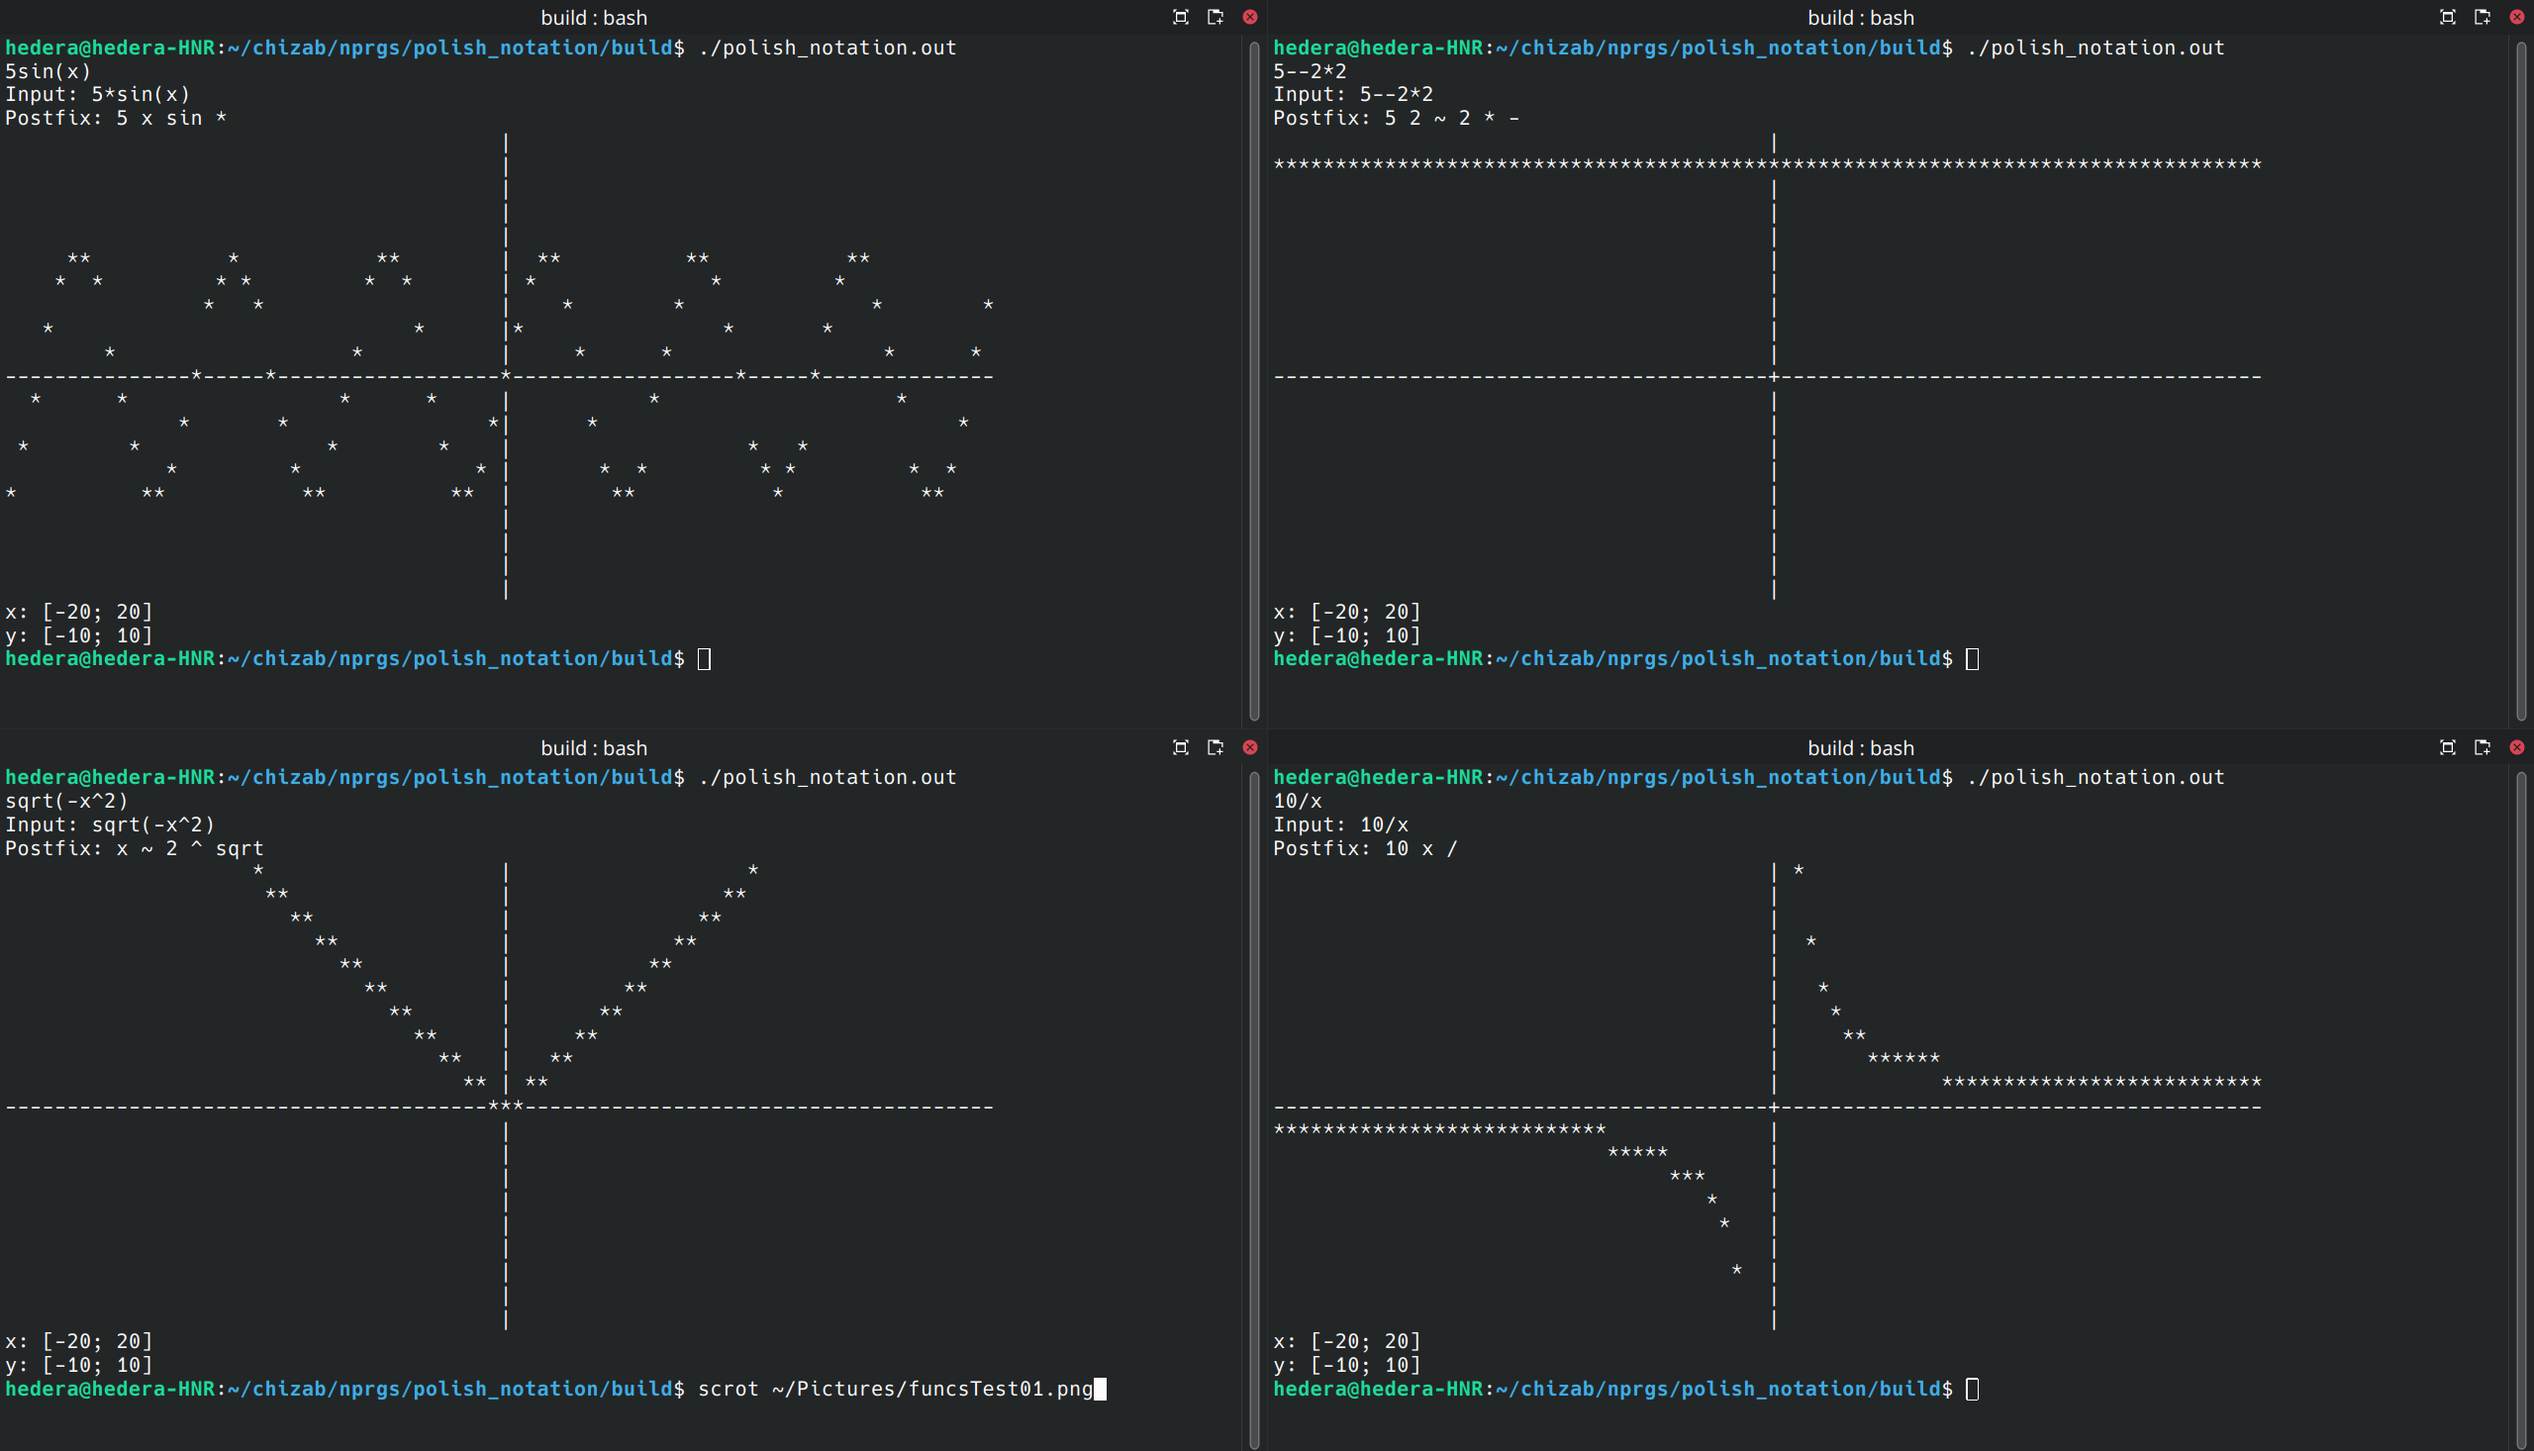
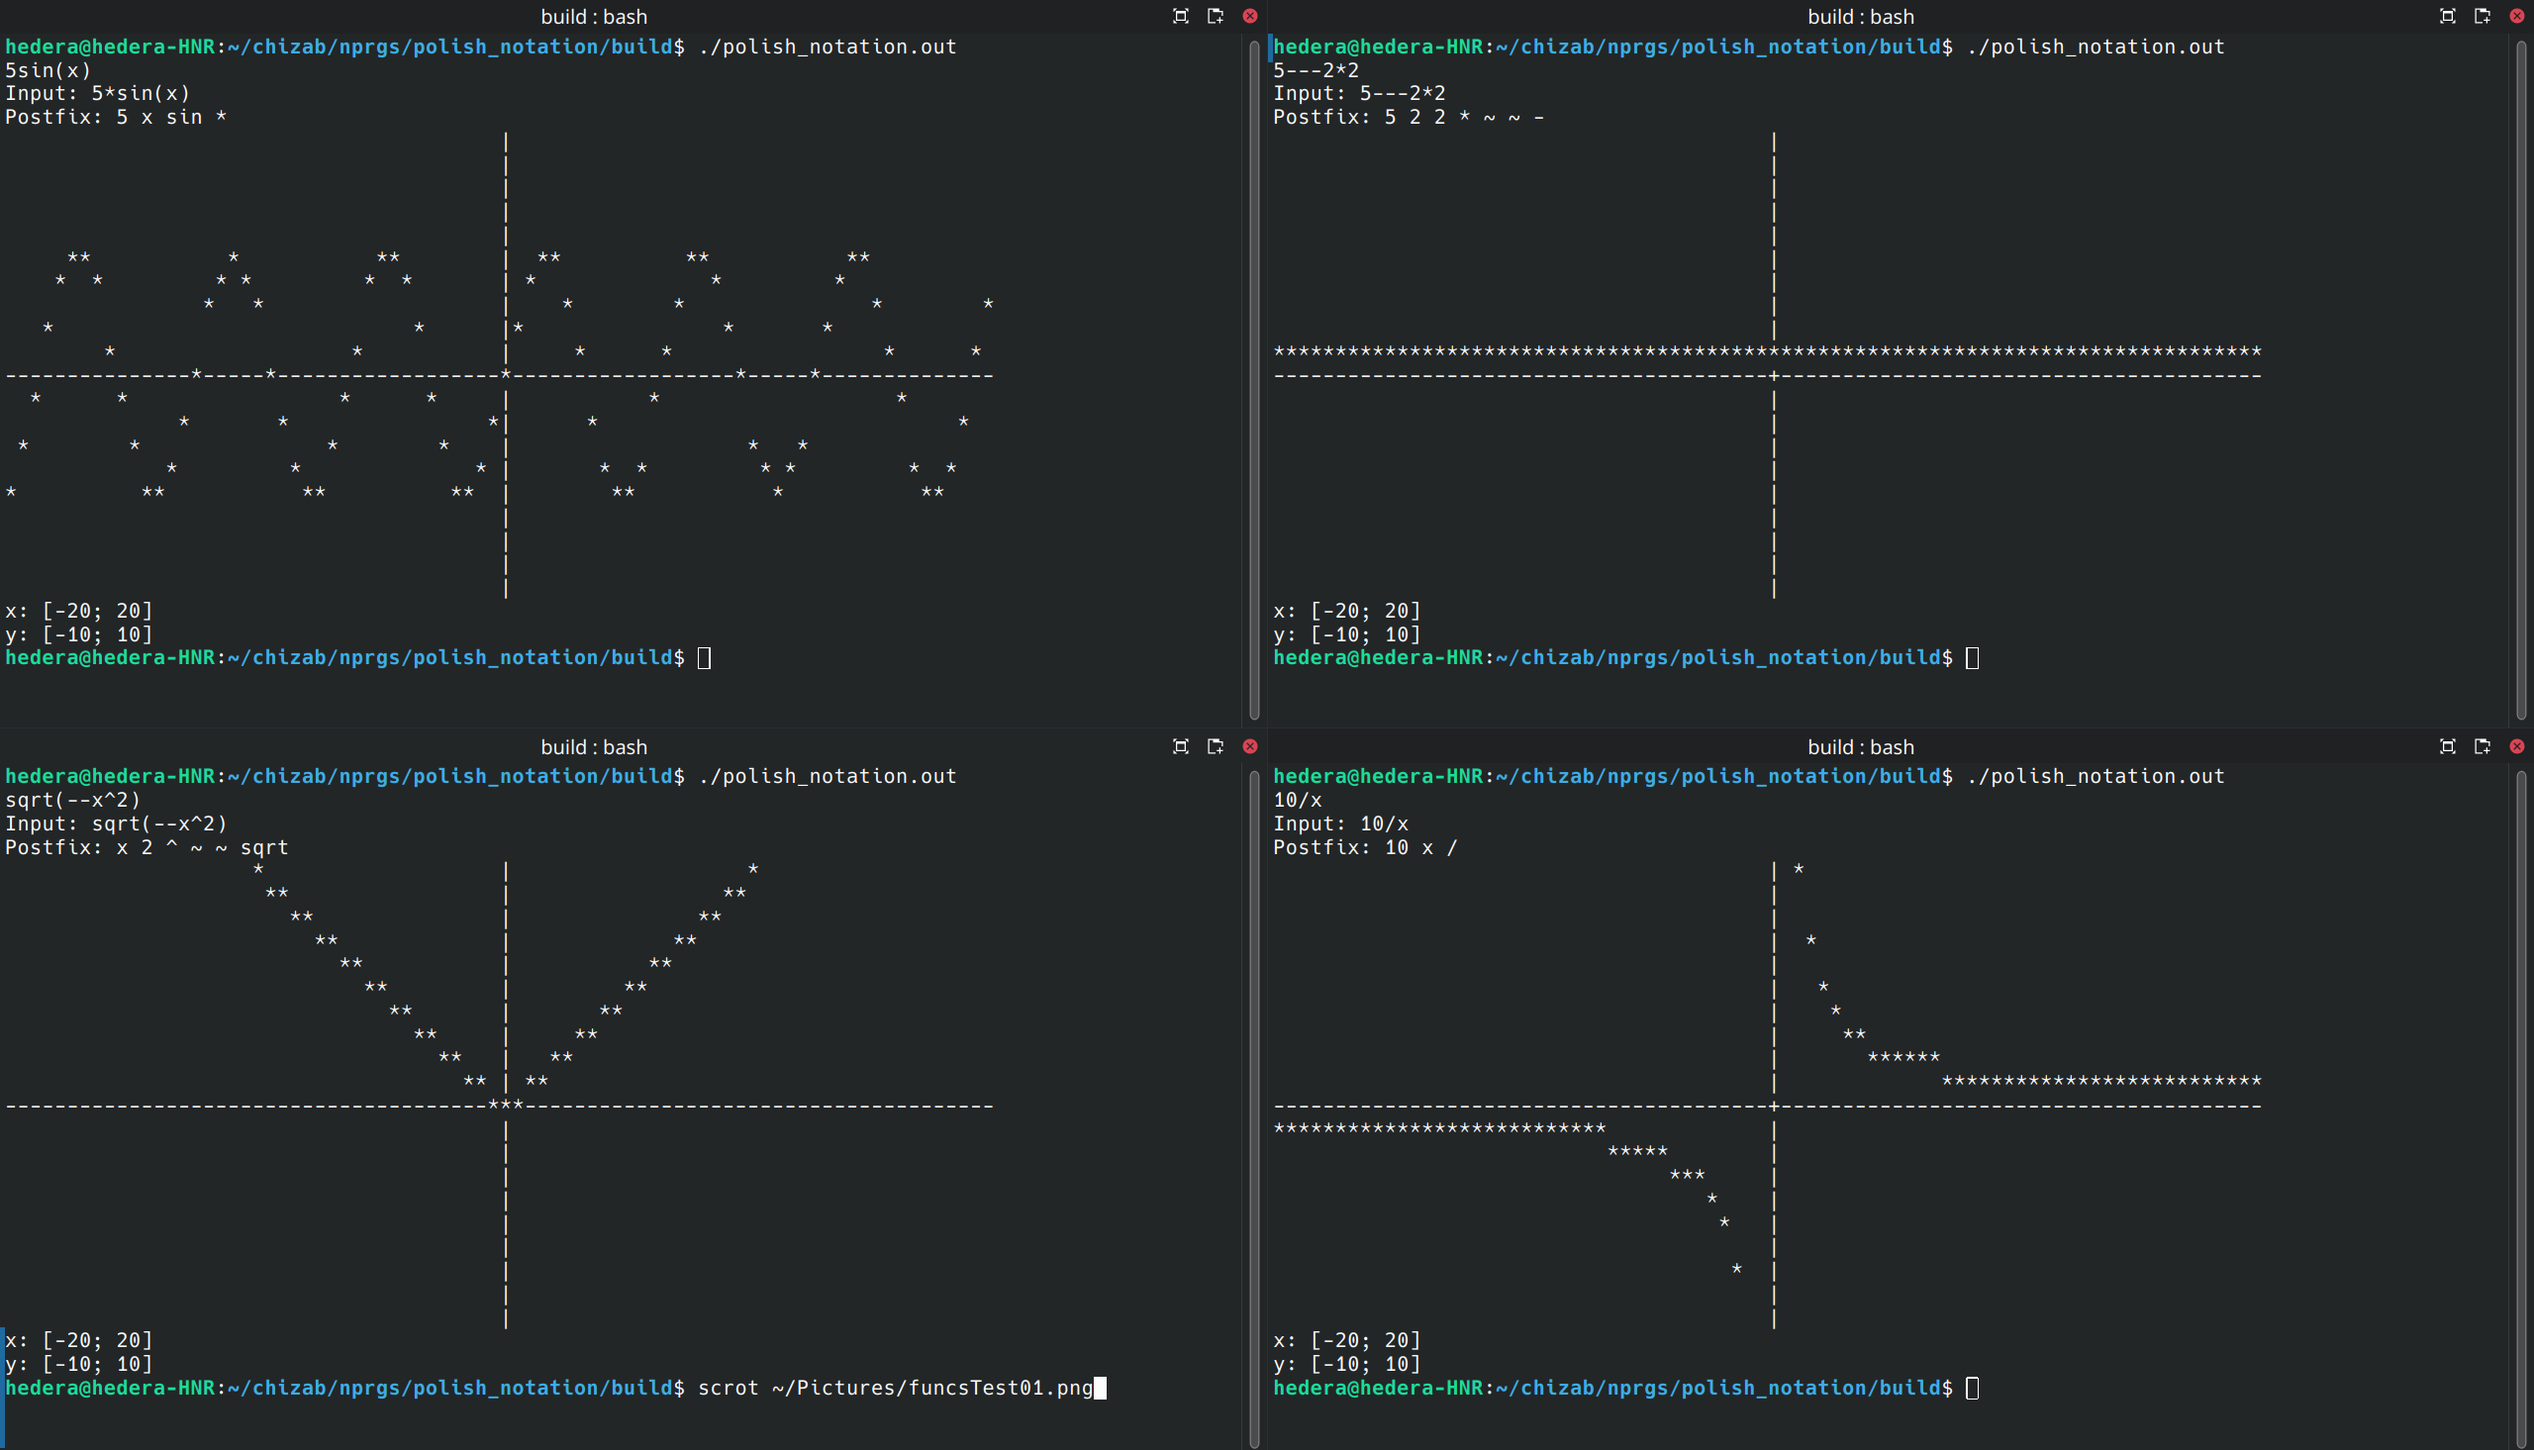
fix: unary minus behavior edited

diff --git a/src/dejkstra_alg/dejkstra.c b/src/dejkstra_alg/dejkstra.c
@@ -208,13 +208,14 @@ int precedence(int op) {
     }
     switch (op) {
         case OP_POWER:
-            return 3;
+            return 4;
         case OP_MULTIPLY:
         case OP_DIVIDE:
+            return 3;
+        case OP_UNARY_MINUS:
             return 2;
         case OP_PLUS:
         case OP_MINUS:
-        case OP_UNARY_MINUS:
             return 1;
         default:
             return 0;
